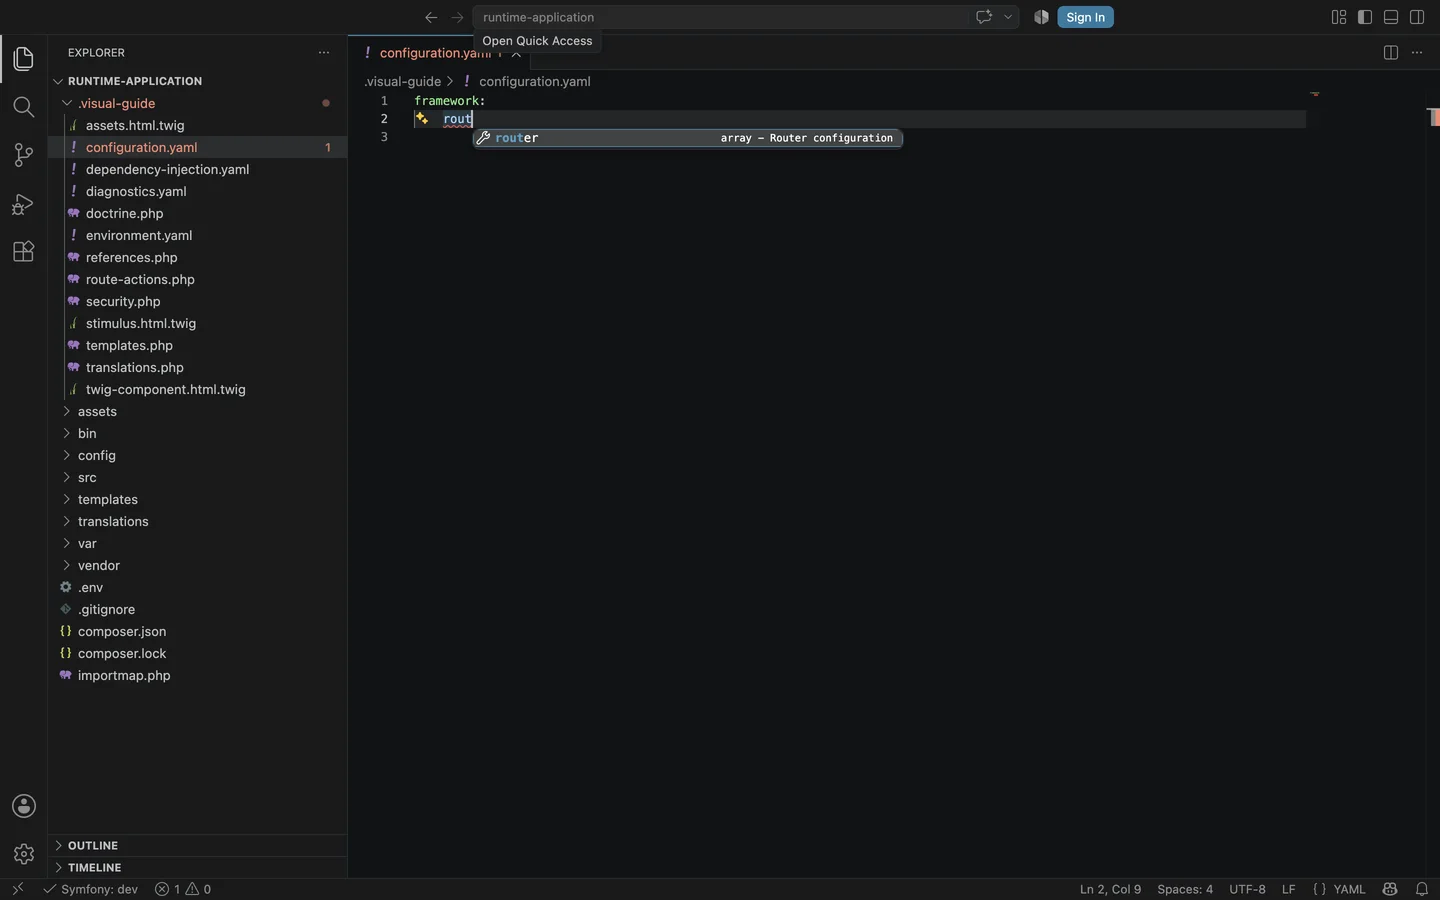
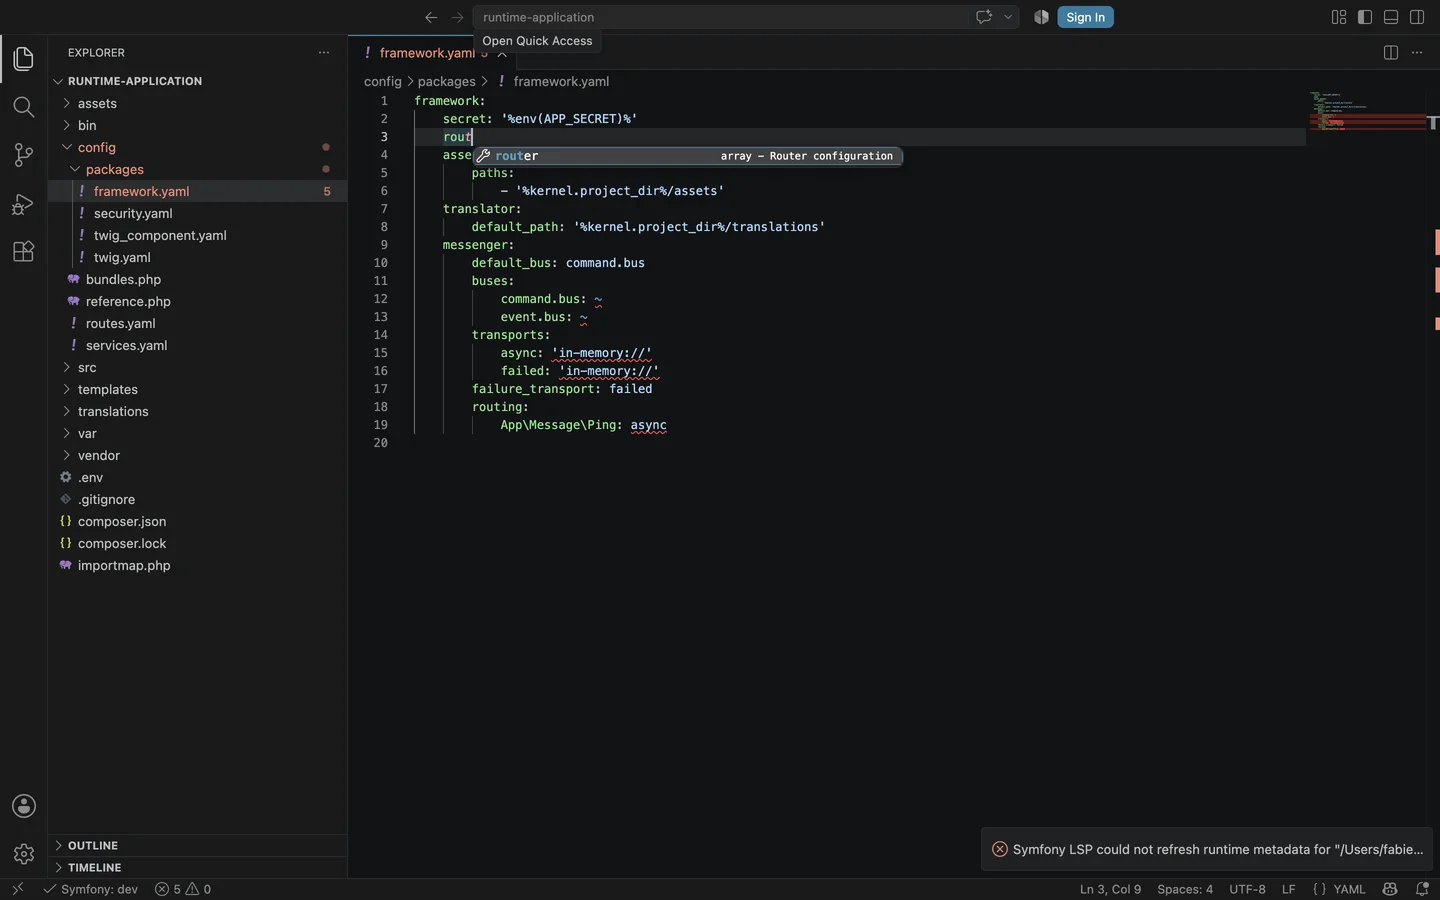
Use real application code for visual captures

diff --git a/docs/vscode-guide/features.html b/docs/vscode-guide/features.html
@@ -195,7 +195,7 @@
                 </article>
 
                 <article id="assets" class="integration-card">
-                    <a href="images/assets.webp"><img src="images/assets.webp" width="1440" height="900" loading="lazy" alt="AssetMapper asset metadata in a hover"></a>
+                    <a href="images/assets.webp"><img src="images/assets.webp" width="1440" height="900" loading="lazy" alt="AssetMapper paths offered in Twig completion"></a>
                     <div class="integration-copy"><h3>AssetMapper and Importmaps</h3><p>Resolve logical asset paths and importmap entrypoints to application or vendor source files.</p><ul class="capabilities"><li class="capability">Completion</li><li class="capability">Hover</li><li class="capability">Definition</li><li class="capability">References</li><li class="capability">Diagnostics</li><li class="capability capability-extra">Document links</li></ul></div>
                 </article>
 

diff --git a/docs/vscode-guide/scenarios/demo/serializer-groups.php b/docs/vscode-guide/scenarios/demo/serializer-groups.php
@@ -9,3 +9,5 @@ final class SerializerGroups
     #[Groups(['admin'])]
     public string $email;
 }
+
+$context = ['groups' => ['ad']];

diff --git a/docs/vscode-guide/README.rst b/docs/vscode-guide/README.rst
@@ -12,8 +12,10 @@ The script:
 
 * opens the Symfony LSP Marketplace page in an empty VS Code profile;
 * clones Symfony Demo and installs its Composer dependencies under ``var/``;
-* builds a feature lab from the public runtime application fixture;
-* installs Symfony LSP in isolated VS Code profiles;
+* builds a feature lab from the project's runtime application fixture;
+* temporarily edits real application files to create incomplete editor states;
+* adds one serializer-group scenario because neither application exposes one;
+* installs Symfony LSP and ``whatwedo.twig`` in isolated VS Code profiles;
 * waits for source and runtime indexing;
 * reproduces every integration and editor workflow in the visual catalog;
 * optimizes the screenshots as WebP images;
